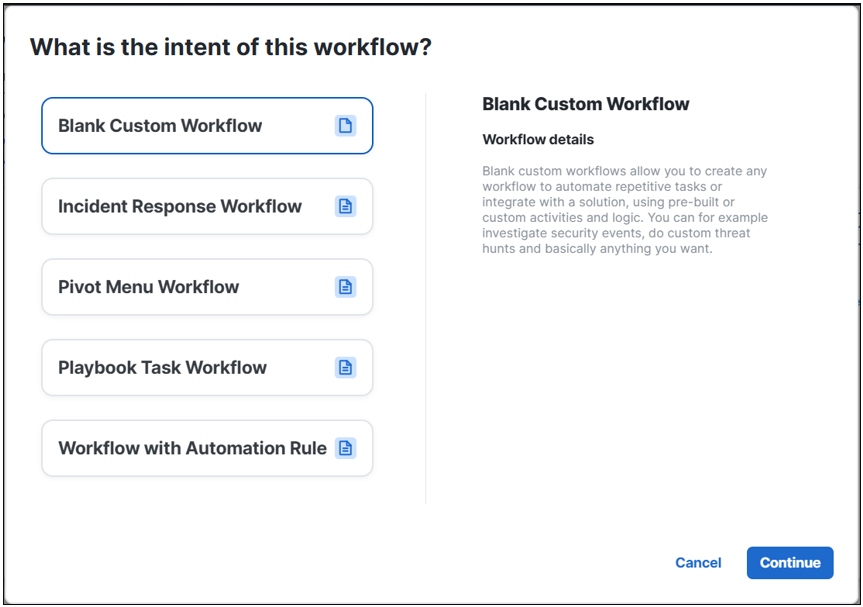
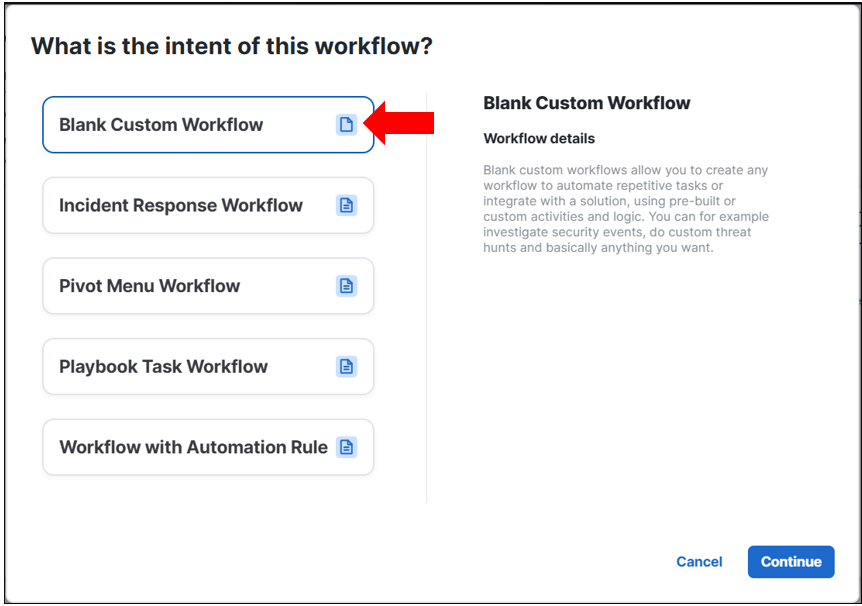
update

diff --git a/1-Create_a_Webex_Team_Bot_Target/readme.md b/1-Create_a_Webex_Team_Bot_Target/readme.md
@@ -85,6 +85,8 @@ For now name your workflow : **Send Text Message to Webex**
 
 Click on **continue**.
 
+![](img/13.png)
+
 Go to the variable section of the properties panel and add to it an **input** variable named **message_to_send_to_webex_room** for example. Make it **required**, meaning that the workflow cannot run if no message are given to it.
 
 Then go to the activity menu on the left side of the workflow editor and drag an drop in the canvas the **HTTP Request** activity.
